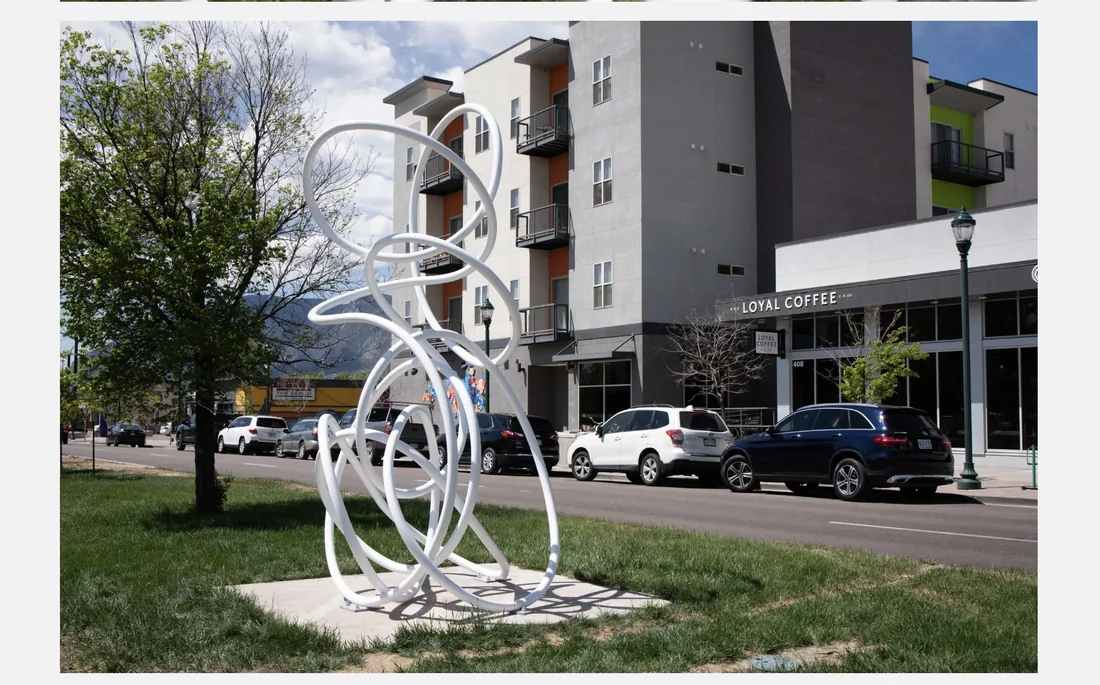
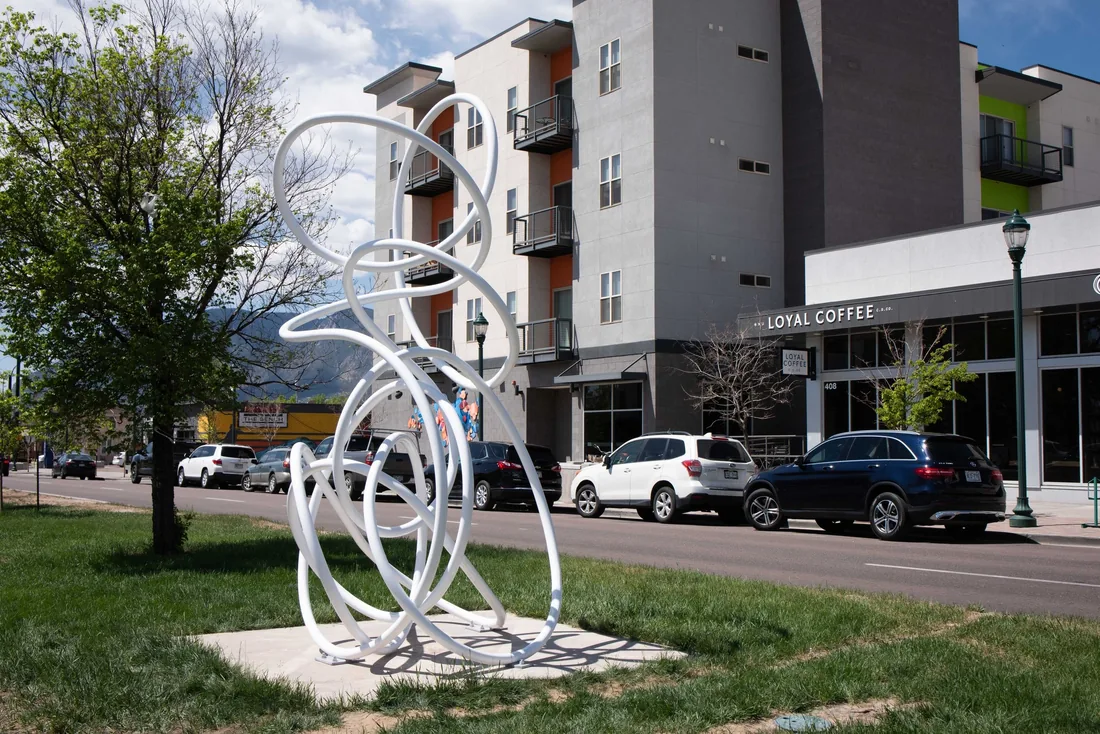
Levity: replace screenshot with original image
Claude-Session: https://claude.ai/code/session_01Y5zLHHVNGBALbwHoLrd9Wg

diff --git a/dist/public-work/index.html b/dist/public-work/index.html
@@ -9,6 +9,6 @@
 <header class="site-head"><div class="wrap"><a class="brand" href="/">Kelly Goff</a>
 <button class="menu-btn" aria-expanded="false" aria-controls="nav">Menu</button>
 <ul class="nav" id="nav"><li><a href="/public-work/" aria-current=page>Public work</a></li><li><a href="/studio/">Studio</a></li><li><a href="/fieldwork/">Fieldwork</a></li><li><a href="/about/">About</a></li><li><a href="/resume/">Resume</a></li><li><a href="/contact/">Contact</a></li></ul></div></header>
-<main id="main"><div class="wrap page-top"><div class="row-head"><div><h1>Public work</h1></div><a class="btn" href="/files/Kelly-Goff-Public-Art-Project-List.pdf">Project list (PDF) ↓</a></div><div><h2 class="sec"><span class=n>01</span>Line works<span class=nt>2020 – present</span></h2></div><p class="sec-d">Continuous lines drawn in space, shaped by a site and built to last outdoors.</p><div class="grid" id="grid-continuous-line"><a class="tile" title="Arboreal Line" href="/public-work/arboreal-line/"><div class="im"><img src="/img/arboreal-line/01-1600.webp" srcset="/img/arboreal-line/01-640.webp 640w, /img/arboreal-line/01-1100.webp 1100w, /img/arboreal-line/01-1600.webp 1600w, /img/arboreal-line/01-2400.webp 2400w" sizes="(max-width:860px) 50vw, 33vw" width="2500" height="1667" alt="Arboreal Line, Uptown Trees, Greeley, CO" loading=lazy decoding=async><span class="hov">Arboreal Line</span></div></a><a class="tile" title="Continuous Line XI (yellow)" href="/public-work/continuous-line-xi/"><div class="im"><img src="/img/continuous-line-xi/01-1600.webp" srcset="/img/continuous-line-xi/01-640.webp 640w, /img/continuous-line-xi/01-1100.webp 1100w, /img/continuous-line-xi/01-1600.webp 1600w, /img/continuous-line-xi/01-2400.webp 2400w" sizes="(max-width:860px) 50vw, 33vw" width="2500" height="1667" alt="Continuous Line XI (yellow), Wheaton College, Norton, MA" loading=lazy decoding=async><span class="hov">Continuous Line XI (yellow)</span></div></a><a class="tile" title="Continuous Line XII (silence)" href="/public-work/continuous-line-xii-silence/"><div class="im"><img src="/img/continuous-line-xii-silence/01-1600.webp" srcset="/img/continuous-line-xii-silence/01-640.webp 640w, /img/continuous-line-xii-silence/01-1100.webp 1100w, /img/continuous-line-xii-silence/01-1600.webp 1600w, /img/continuous-line-xii-silence/01-2400.webp 2400w" sizes="(max-width:860px) 50vw, 33vw" width="2576" height="1932" alt="Continuous Line XII (silence), Wheaton College, Norton, MA" loading=lazy decoding=async><span class="hov">Continuous Line XII (silence)</span></div></a><a class="tile" title="Continuous Line VIII (bamboo)" href="/public-work/continuous-line-viii-bamboo/"><div class="im"><img src="/img/continuous-line-viii-bamboo/03-1600.webp" srcset="/img/continuous-line-viii-bamboo/03-640.webp 640w, /img/continuous-line-viii-bamboo/03-1100.webp 1100w, /img/continuous-line-viii-bamboo/03-1600.webp 1600w, /img/continuous-line-viii-bamboo/03-1776.webp 1776w" sizes="(max-width:860px) 50vw, 33vw" width="1776" height="1184" alt="Continuous Line VIII (bamboo), Geumgang Nature Art Biennale, Yeonmisan Art Park, Gongju, South Korea, view 3" loading=lazy decoding=async><span class="hov">Continuous Line VIII (bamboo)</span></div></a><a class="tile" title="Continuous Line X (heat)" href="/public-work/continuous-line-x-heat/"><div class="im"><img src="/img/continuous-line-x-heat/01-1600.webp" srcset="/img/continuous-line-x-heat/01-640.webp 640w, /img/continuous-line-x-heat/01-1100.webp 1100w, /img/continuous-line-x-heat/01-1600.webp 1600w, /img/continuous-line-x-heat/01-2400.webp 2400w" sizes="(max-width:860px) 50vw, 33vw" width="2500" height="1669" alt="Continuous Line X (heat), Wheaton College, Norton, MA" loading=lazy decoding=async><span class="hov">Continuous Line X (heat)</span></div></a><a class="tile" title="Continuous Line VI (levity)" href="/public-work/continuous-line-vi-levity/"><div class="im"><img src="/img/continuous-line-vi-levity/04-1600.webp" srcset="/img/continuous-line-vi-levity/04-640.webp 640w, /img/continuous-line-vi-levity/04-1100.webp 1100w, /img/continuous-line-vi-levity/04-1600.webp 1600w, /img/continuous-line-vi-levity/04-1854.webp 1854w" sizes="(max-width:860px) 50vw, 33vw" width="1854" height="1154" alt="Continuous Line VI (levity), Power Tech Charter School, Colorado Springs, CO, view 4" loading=lazy decoding=async><span class="hov">Continuous Line VI (levity)</span></div></a><a class="tile" title="Continuous Line VII" href="/public-work/continuous-line-vii/"><div class="im"><img src="/img/continuous-line-vii/01-1600.webp" srcset="/img/continuous-line-vii/01-640.webp 640w, /img/continuous-line-vii/01-1100.webp 1100w, /img/continuous-line-vii/01-1600.webp 1600w, /img/continuous-line-vii/01-2400.webp 2400w" sizes="(max-width:860px) 50vw, 33vw" width="2500" height="1668" alt="Continuous Line VII, El Paseo Sculpture Exhibition, Palm Desert, CA" loading=lazy decoding=async><span class="hov">Continuous Line VII</span></div></a><a class="tile" title="Continuous Line I (tangerine)" href="/public-work/continuous-line-i-tangerine/"><div class="im"><img src="/img/continuous-line-i-tangerine/01-1600.webp" srcset="/img/continuous-line-i-tangerine/01-640.webp 640w, /img/continuous-line-i-tangerine/01-1100.webp 1100w, /img/continuous-line-i-tangerine/01-1600.webp 1600w, /img/continuous-line-i-tangerine/01-2400.webp 2400w" sizes="(max-width:860px) 50vw, 33vw" width="2500" height="1667" alt="Continuous Line I (tangerine), Art on the Trails, Beals Preserve, Southborough, MA" loading=lazy decoding=async><span class="hov">Continuous Line I (tangerine)</span></div></a><a class="tile" title="Continuous Line II (aquamarine)" href="/public-work/continuous-line-ii-aquamarine/"><div class="im"><img src="/img/continuous-line-ii-aquamarine/01-1600.webp" srcset="/img/continuous-line-ii-aquamarine/01-640.webp 640w, /img/continuous-line-ii-aquamarine/01-1100.webp 1100w, /img/continuous-line-ii-aquamarine/01-1600.webp 1600w, /img/continuous-line-ii-aquamarine/01-2400.webp 2400w" sizes="(max-width:860px) 50vw, 33vw" width="2500" height="1669" alt="Continuous Line II (aquamarine), Art on the Trails, Beals Preserve, Southborough, MA" loading=lazy decoding=async><span class="hov">Continuous Line II (aquamarine)</span></div></a></div><div><h2 class="sec"><span class=n>02</span>Place-based / collaborative<span class=nt>2014 – 2021</span></h2></div><p class="sec-d">Work made in response to a specific place, often with the people who use it.</p><div class="grid" id="grid-place-based"><a class="tile" title="Limb Support" href="/public-work/limb-support/"><div class="im"><img src="/img/limb-support/01-1600.webp" srcset="/img/limb-support/01-640.webp 640w, /img/limb-support/01-1100.webp 1100w, /img/limb-support/01-1600.webp 1600w, /img/limb-support/01-2000.webp 2000w" sizes="(max-width:860px) 50vw, 33vw" width="2000" height="1333" alt="Limb Support, Art on the Trails, Beals Preserve, Southborough, MA" loading=lazy decoding=async><span class="hov">Limb Support</span></div></a><a class="tile" title="Log Pile" href="/public-work/log-pile/"><div class="im"><img src="/img/log-pile/01-1600.webp" srcset="/img/log-pile/01-640.webp 640w, /img/log-pile/01-1100.webp 1100w, /img/log-pile/01-1600.webp 1600w, /img/log-pile/01-2400.webp 2400w" sizes="(max-width:860px) 50vw, 33vw" width="2500" height="1668" alt="Log Pile, Early Learning Center, Wheaton College, Norton, MA" loading=lazy decoding=async><span class="hov">Log Pile</span></div></a><a class="tile" title="Beacon" href="/public-work/beacon/"><div class="im"><img src="/img/beacon/01-1600.webp" srcset="/img/beacon/01-640.webp 640w, /img/beacon/01-1100.webp 1100w, /img/beacon/01-1600.webp 1600w, /img/beacon/01-2400.webp 2400w" sizes="(max-width:860px) 50vw, 33vw" width="2500" height="1669" alt="Beacon, gardeHouse, Lafayette College, Easton, PA" loading=lazy decoding=async><span class="hov">Beacon</span></div></a><a class="tile" title="Bamboo III (of V)" href="/public-work/bamboo-iii/"><div class="im"><img src="/img/bamboo-iii/07-1600.webp" srcset="/img/bamboo-iii/07-640.webp 640w, /img/bamboo-iii/07-1100.webp 1100w, /img/bamboo-iii/07-1600.webp 1600w, /img/bamboo-iii/07-2400.webp 2400w" sizes="(max-width:860px) 50vw, 33vw" width="2500" height="1668" alt="Bamboo III (of V), Royal Thimphu College, Thimphu, Bhutan, view 7" loading=lazy decoding=async><span class="hov">Bamboo III (of V)</span></div></a><a class="tile" title="Lawn Containers" href="/public-work/lawn-containers/"><div class="im"><img src="/img/lawn-containers/05-1600.webp" srcset="/img/lawn-containers/05-640.webp 640w, /img/lawn-containers/05-1100.webp 1100w, /img/lawn-containers/05-1600.webp 1600w, /img/lawn-containers/05-1920.webp 1920w" sizes="(max-width:860px) 50vw, 33vw" width="1920" height="1280" alt="Lawn Containers, D Street Art Lab, Lawn on D, Boston, MA, view 5" loading=lazy decoding=async><span class="hov">Lawn Containers</span></div></a><a class="tile" title="Bear" href="/public-work/bear/"><div class="im"><img src="/img/bear/01-1600.webp" srcset="/img/bear/01-640.webp 640w, /img/bear/01-1100.webp 1100w, /img/bear/01-1600.webp 1600w, /img/bear/01-2400.webp 2400w" sizes="(max-width:860px) 50vw, 33vw" width="2500" height="1667" alt="Bear, Lake Clark National Park, Alaska" loading=lazy decoding=async><span class="hov">Bear</span></div></a></div><div><h2 class="sec"><span class=n>03</span>Drawings &amp; Renderings<span class=nt>Unbuilt</span></h2></div><p class="sec-d">Rendered models placed in photographs of real and imagined places. This is how I draw for fun, and how I ideate and envision work for public spaces. None of these are built, and none use <a href="/about/#ai">generative AI</a>.</p><div class="grid" id="grid-renderings"><a class="tile" title="Seated Line" href="/public-work/renderings/seated-line/"><div class="im"><img src="/img/rd-seated-line/02-1600.webp" srcset="/img/rd-seated-line/02-640.webp 640w, /img/rd-seated-line/02-1100.webp 1100w, /img/rd-seated-line/02-1600.webp 1600w, /img/rd-seated-line/02-2250.webp 2250w" sizes="(max-width:860px) 50vw, 33vw" width="2250" height="1500" alt="Rendering of a red looping sculpture on a harbor quay" loading=lazy decoding=async></div></a><a class="tile" title="Black loops, open field" href="/public-work/renderings/black-field/"><div class="im"><img src="/img/rd-black-field/01-1600.webp" srcset="/img/rd-black-field/01-640.webp 640w, /img/rd-black-field/01-1100.webp 1100w, /img/rd-black-field/01-1600.webp 1600w, /img/rd-black-field/01-2400.webp 2400w" sizes="(max-width:860px) 50vw, 33vw" width="2500" height="1668" alt="Rendering of black loops, close view, in an open field" loading=lazy decoding=async></div></a><a class="tile" title="Tower" href="/public-work/renderings/tower/"><div class="im"><img src="/img/rd-tower/01-1600.webp" srcset="/img/rd-tower/01-640.webp 640w, /img/rd-tower/01-1100.webp 1100w, /img/rd-tower/01-1600.webp 1600w, /img/rd-tower/01-2048.webp 2048w" sizes="(max-width:860px) 50vw, 33vw" width="2048" height="1536" alt="Rendering of a 40-foot tower of stacked crates in an open field" loading=lazy decoding=async></div></a><a class="tile" title="Timber Loop" href="/public-work/renderings/timber-loop/"><div class="im"><img src="/img/rd-timber-loop/03-1600.webp" srcset="/img/rd-timber-loop/03-640.webp 640w, /img/rd-timber-loop/03-1100.webp 1100w, /img/rd-timber-loop/03-1600.webp 1600w, /img/rd-timber-loop/03-2021.webp 2021w" sizes="(max-width:860px) 50vw, 33vw" width="2021" height="1516" alt="Rendering of a two-tone timber looping sculpture in a plaza" loading=lazy decoding=async></div></a><a class="tile" title="Tall Circuit" href="/public-work/renderings/tall-circuit/"><div class="im"><img src="/img/rd-tall-circuit/02-1600.webp" srcset="/img/rd-tall-circuit/02-640.webp 640w, /img/rd-tall-circuit/02-1100.webp 1100w, /img/rd-tall-circuit/02-1600.webp 1600w, /img/rd-tall-circuit/02-2250.webp 2250w" sizes="(max-width:860px) 50vw, 33vw" width="2250" height="1500" alt="Rendering of a tall looping pink aluminum sculpture in an urban setting" loading=lazy decoding=async></div></a></div></div></main>
+<main id="main"><div class="wrap page-top"><div class="row-head"><div><h1>Public work</h1></div><a class="btn" href="/files/Kelly-Goff-Public-Art-Project-List.pdf">Project list (PDF) ↓</a></div><div><h2 class="sec"><span class=n>01</span>Line works<span class=nt>2020 – present</span></h2></div><p class="sec-d">Continuous lines drawn in space, shaped by a site and built to last outdoors.</p><div class="grid" id="grid-continuous-line"><a class="tile" title="Arboreal Line" href="/public-work/arboreal-line/"><div class="im"><img src="/img/arboreal-line/01-1600.webp" srcset="/img/arboreal-line/01-640.webp 640w, /img/arboreal-line/01-1100.webp 1100w, /img/arboreal-line/01-1600.webp 1600w, /img/arboreal-line/01-2400.webp 2400w" sizes="(max-width:860px) 50vw, 33vw" width="2500" height="1667" alt="Arboreal Line, Uptown Trees, Greeley, CO" loading=lazy decoding=async><span class="hov">Arboreal Line</span></div></a><a class="tile" title="Continuous Line XI (yellow)" href="/public-work/continuous-line-xi/"><div class="im"><img src="/img/continuous-line-xi/01-1600.webp" srcset="/img/continuous-line-xi/01-640.webp 640w, /img/continuous-line-xi/01-1100.webp 1100w, /img/continuous-line-xi/01-1600.webp 1600w, /img/continuous-line-xi/01-2400.webp 2400w" sizes="(max-width:860px) 50vw, 33vw" width="2500" height="1667" alt="Continuous Line XI (yellow), Wheaton College, Norton, MA" loading=lazy decoding=async><span class="hov">Continuous Line XI (yellow)</span></div></a><a class="tile" title="Continuous Line XII (silence)" href="/public-work/continuous-line-xii-silence/"><div class="im"><img src="/img/continuous-line-xii-silence/01-1600.webp" srcset="/img/continuous-line-xii-silence/01-640.webp 640w, /img/continuous-line-xii-silence/01-1100.webp 1100w, /img/continuous-line-xii-silence/01-1600.webp 1600w, /img/continuous-line-xii-silence/01-2400.webp 2400w" sizes="(max-width:860px) 50vw, 33vw" width="2576" height="1932" alt="Continuous Line XII (silence), Wheaton College, Norton, MA" loading=lazy decoding=async><span class="hov">Continuous Line XII (silence)</span></div></a><a class="tile" title="Continuous Line VIII (bamboo)" href="/public-work/continuous-line-viii-bamboo/"><div class="im"><img src="/img/continuous-line-viii-bamboo/03-1600.webp" srcset="/img/continuous-line-viii-bamboo/03-640.webp 640w, /img/continuous-line-viii-bamboo/03-1100.webp 1100w, /img/continuous-line-viii-bamboo/03-1600.webp 1600w, /img/continuous-line-viii-bamboo/03-1776.webp 1776w" sizes="(max-width:860px) 50vw, 33vw" width="1776" height="1184" alt="Continuous Line VIII (bamboo), Geumgang Nature Art Biennale, Yeonmisan Art Park, Gongju, South Korea, view 3" loading=lazy decoding=async><span class="hov">Continuous Line VIII (bamboo)</span></div></a><a class="tile" title="Continuous Line X (heat)" href="/public-work/continuous-line-x-heat/"><div class="im"><img src="/img/continuous-line-x-heat/01-1600.webp" srcset="/img/continuous-line-x-heat/01-640.webp 640w, /img/continuous-line-x-heat/01-1100.webp 1100w, /img/continuous-line-x-heat/01-1600.webp 1600w, /img/continuous-line-x-heat/01-2400.webp 2400w" sizes="(max-width:860px) 50vw, 33vw" width="2500" height="1669" alt="Continuous Line X (heat), Wheaton College, Norton, MA" loading=lazy decoding=async><span class="hov">Continuous Line X (heat)</span></div></a><a class="tile" title="Continuous Line VI (levity)" href="/public-work/continuous-line-vi-levity/"><div class="im"><img src="/img/continuous-line-vi-levity/04-1600.webp" srcset="/img/continuous-line-vi-levity/04-640.webp 640w, /img/continuous-line-vi-levity/04-1100.webp 1100w, /img/continuous-line-vi-levity/04-1600.webp 1600w, /img/continuous-line-vi-levity/04-2400.webp 2400w" sizes="(max-width:860px) 50vw, 33vw" width="2500" height="1668" alt="Continuous Line VI (levity), Power Tech Charter School, Colorado Springs, CO, view 4" loading=lazy decoding=async><span class="hov">Continuous Line VI (levity)</span></div></a><a class="tile" title="Continuous Line VII" href="/public-work/continuous-line-vii/"><div class="im"><img src="/img/continuous-line-vii/01-1600.webp" srcset="/img/continuous-line-vii/01-640.webp 640w, /img/continuous-line-vii/01-1100.webp 1100w, /img/continuous-line-vii/01-1600.webp 1600w, /img/continuous-line-vii/01-2400.webp 2400w" sizes="(max-width:860px) 50vw, 33vw" width="2500" height="1668" alt="Continuous Line VII, El Paseo Sculpture Exhibition, Palm Desert, CA" loading=lazy decoding=async><span class="hov">Continuous Line VII</span></div></a><a class="tile" title="Continuous Line I (tangerine)" href="/public-work/continuous-line-i-tangerine/"><div class="im"><img src="/img/continuous-line-i-tangerine/01-1600.webp" srcset="/img/continuous-line-i-tangerine/01-640.webp 640w, /img/continuous-line-i-tangerine/01-1100.webp 1100w, /img/continuous-line-i-tangerine/01-1600.webp 1600w, /img/continuous-line-i-tangerine/01-2400.webp 2400w" sizes="(max-width:860px) 50vw, 33vw" width="2500" height="1667" alt="Continuous Line I (tangerine), Art on the Trails, Beals Preserve, Southborough, MA" loading=lazy decoding=async><span class="hov">Continuous Line I (tangerine)</span></div></a><a class="tile" title="Continuous Line II (aquamarine)" href="/public-work/continuous-line-ii-aquamarine/"><div class="im"><img src="/img/continuous-line-ii-aquamarine/01-1600.webp" srcset="/img/continuous-line-ii-aquamarine/01-640.webp 640w, /img/continuous-line-ii-aquamarine/01-1100.webp 1100w, /img/continuous-line-ii-aquamarine/01-1600.webp 1600w, /img/continuous-line-ii-aquamarine/01-2400.webp 2400w" sizes="(max-width:860px) 50vw, 33vw" width="2500" height="1669" alt="Continuous Line II (aquamarine), Art on the Trails, Beals Preserve, Southborough, MA" loading=lazy decoding=async><span class="hov">Continuous Line II (aquamarine)</span></div></a></div><div><h2 class="sec"><span class=n>02</span>Place-based / collaborative<span class=nt>2014 – 2021</span></h2></div><p class="sec-d">Work made in response to a specific place, often with the people who use it.</p><div class="grid" id="grid-place-based"><a class="tile" title="Limb Support" href="/public-work/limb-support/"><div class="im"><img src="/img/limb-support/01-1600.webp" srcset="/img/limb-support/01-640.webp 640w, /img/limb-support/01-1100.webp 1100w, /img/limb-support/01-1600.webp 1600w, /img/limb-support/01-2000.webp 2000w" sizes="(max-width:860px) 50vw, 33vw" width="2000" height="1333" alt="Limb Support, Art on the Trails, Beals Preserve, Southborough, MA" loading=lazy decoding=async><span class="hov">Limb Support</span></div></a><a class="tile" title="Log Pile" href="/public-work/log-pile/"><div class="im"><img src="/img/log-pile/01-1600.webp" srcset="/img/log-pile/01-640.webp 640w, /img/log-pile/01-1100.webp 1100w, /img/log-pile/01-1600.webp 1600w, /img/log-pile/01-2400.webp 2400w" sizes="(max-width:860px) 50vw, 33vw" width="2500" height="1668" alt="Log Pile, Early Learning Center, Wheaton College, Norton, MA" loading=lazy decoding=async><span class="hov">Log Pile</span></div></a><a class="tile" title="Beacon" href="/public-work/beacon/"><div class="im"><img src="/img/beacon/01-1600.webp" srcset="/img/beacon/01-640.webp 640w, /img/beacon/01-1100.webp 1100w, /img/beacon/01-1600.webp 1600w, /img/beacon/01-2400.webp 2400w" sizes="(max-width:860px) 50vw, 33vw" width="2500" height="1669" alt="Beacon, gardeHouse, Lafayette College, Easton, PA" loading=lazy decoding=async><span class="hov">Beacon</span></div></a><a class="tile" title="Bamboo III (of V)" href="/public-work/bamboo-iii/"><div class="im"><img src="/img/bamboo-iii/07-1600.webp" srcset="/img/bamboo-iii/07-640.webp 640w, /img/bamboo-iii/07-1100.webp 1100w, /img/bamboo-iii/07-1600.webp 1600w, /img/bamboo-iii/07-2400.webp 2400w" sizes="(max-width:860px) 50vw, 33vw" width="2500" height="1668" alt="Bamboo III (of V), Royal Thimphu College, Thimphu, Bhutan, view 7" loading=lazy decoding=async><span class="hov">Bamboo III (of V)</span></div></a><a class="tile" title="Lawn Containers" href="/public-work/lawn-containers/"><div class="im"><img src="/img/lawn-containers/05-1600.webp" srcset="/img/lawn-containers/05-640.webp 640w, /img/lawn-containers/05-1100.webp 1100w, /img/lawn-containers/05-1600.webp 1600w, /img/lawn-containers/05-1920.webp 1920w" sizes="(max-width:860px) 50vw, 33vw" width="1920" height="1280" alt="Lawn Containers, D Street Art Lab, Lawn on D, Boston, MA, view 5" loading=lazy decoding=async><span class="hov">Lawn Containers</span></div></a><a class="tile" title="Bear" href="/public-work/bear/"><div class="im"><img src="/img/bear/01-1600.webp" srcset="/img/bear/01-640.webp 640w, /img/bear/01-1100.webp 1100w, /img/bear/01-1600.webp 1600w, /img/bear/01-2400.webp 2400w" sizes="(max-width:860px) 50vw, 33vw" width="2500" height="1667" alt="Bear, Lake Clark National Park, Alaska" loading=lazy decoding=async><span class="hov">Bear</span></div></a></div><div><h2 class="sec"><span class=n>03</span>Drawings &amp; Renderings<span class=nt>Unbuilt</span></h2></div><p class="sec-d">Rendered models placed in photographs of real and imagined places. This is how I draw for fun, and how I ideate and envision work for public spaces. None of these are built, and none use <a href="/about/#ai">generative AI</a>.</p><div class="grid" id="grid-renderings"><a class="tile" title="Seated Line" href="/public-work/renderings/seated-line/"><div class="im"><img src="/img/rd-seated-line/02-1600.webp" srcset="/img/rd-seated-line/02-640.webp 640w, /img/rd-seated-line/02-1100.webp 1100w, /img/rd-seated-line/02-1600.webp 1600w, /img/rd-seated-line/02-2250.webp 2250w" sizes="(max-width:860px) 50vw, 33vw" width="2250" height="1500" alt="Rendering of a red looping sculpture on a harbor quay" loading=lazy decoding=async></div></a><a class="tile" title="Black loops, open field" href="/public-work/renderings/black-field/"><div class="im"><img src="/img/rd-black-field/01-1600.webp" srcset="/img/rd-black-field/01-640.webp 640w, /img/rd-black-field/01-1100.webp 1100w, /img/rd-black-field/01-1600.webp 1600w, /img/rd-black-field/01-2400.webp 2400w" sizes="(max-width:860px) 50vw, 33vw" width="2500" height="1668" alt="Rendering of black loops, close view, in an open field" loading=lazy decoding=async></div></a><a class="tile" title="Tower" href="/public-work/renderings/tower/"><div class="im"><img src="/img/rd-tower/01-1600.webp" srcset="/img/rd-tower/01-640.webp 640w, /img/rd-tower/01-1100.webp 1100w, /img/rd-tower/01-1600.webp 1600w, /img/rd-tower/01-2048.webp 2048w" sizes="(max-width:860px) 50vw, 33vw" width="2048" height="1536" alt="Rendering of a 40-foot tower of stacked crates in an open field" loading=lazy decoding=async></div></a><a class="tile" title="Timber Loop" href="/public-work/renderings/timber-loop/"><div class="im"><img src="/img/rd-timber-loop/03-1600.webp" srcset="/img/rd-timber-loop/03-640.webp 640w, /img/rd-timber-loop/03-1100.webp 1100w, /img/rd-timber-loop/03-1600.webp 1600w, /img/rd-timber-loop/03-2021.webp 2021w" sizes="(max-width:860px) 50vw, 33vw" width="2021" height="1516" alt="Rendering of a two-tone timber looping sculpture in a plaza" loading=lazy decoding=async></div></a><a class="tile" title="Tall Circuit" href="/public-work/renderings/tall-circuit/"><div class="im"><img src="/img/rd-tall-circuit/02-1600.webp" srcset="/img/rd-tall-circuit/02-640.webp 640w, /img/rd-tall-circuit/02-1100.webp 1100w, /img/rd-tall-circuit/02-1600.webp 1600w, /img/rd-tall-circuit/02-2250.webp 2250w" sizes="(max-width:860px) 50vw, 33vw" width="2250" height="1500" alt="Rendering of a tall looping pink aluminum sculpture in an urban setting" loading=lazy decoding=async></div></a></div></div></main>
 <footer class="site-foot"><div class="wrap"><span>© 2008–2026 Kelly Goff</span><a href="https://www.instagram.com/kellygoffstudio/" rel="me noopener">Instagram · @kellygoffstudio</a></div></footer>
 <script src="/assets/js/site.js" defer></script></body></html>

diff --git a/dist/public-work/continuous-line-vi-levity/index.html b/dist/public-work/continuous-line-vi-levity/index.html
@@ -9,6 +9,6 @@
 <header class="site-head"><div class="wrap"><a class="brand" href="/">Kelly Goff</a>
 <button class="menu-btn" aria-expanded="false" aria-controls="nav">Menu</button>
 <ul class="nav" id="nav"><li><a href="/public-work/" aria-current=page>Public work</a></li><li><a href="/studio/">Studio</a></li><li><a href="/fieldwork/">Fieldwork</a></li><li><a href="/about/">About</a></li><li><a href="/resume/">Resume</a></li><li><a href="/contact/">Contact</a></li></ul></div></header>
-<main id="main"><div class="wrap page-top"><div class="crumb"><a href="/public-work/">Public work</a> / Line works</div><h1 style="margin-top:10px">Continuous Line VI (levity)</h1><div class="proj"><div class="gal"><figure><button type="button" data-lb="/img/continuous-line-vi-levity/01-2400.webp" data-alt="Continuous Line VI (levity), Power Tech Charter School, Colorado Springs, CO" data-cap="Continuous Line VI (levity)" aria-label="Enlarge image 1 of 4"><img src="/img/continuous-line-vi-levity/01-1600.webp" srcset="/img/continuous-line-vi-levity/01-640.webp 640w, /img/continuous-line-vi-levity/01-1100.webp 1100w, /img/continuous-line-vi-levity/01-1600.webp 1600w, /img/continuous-line-vi-levity/01-2400.webp 2400w" sizes="(max-width:860px) 100vw, 60vw" width="2500" height="1669" alt="Continuous Line VI (levity), Power Tech Charter School, Colorado Springs, CO" decoding=async></button></figure><figure><button type="button" data-lb="/img/continuous-line-vi-levity/02-2400.webp" data-alt="Continuous Line VI (levity), Power Tech Charter School, Colorado Springs, CO, view 2" data-cap="Continuous Line VI (levity)" aria-label="Enlarge image 2 of 4"><img src="/img/continuous-line-vi-levity/02-1600.webp" srcset="/img/continuous-line-vi-levity/02-640.webp 640w, /img/continuous-line-vi-levity/02-1100.webp 1100w, /img/continuous-line-vi-levity/02-1600.webp 1600w, /img/continuous-line-vi-levity/02-2400.webp 2400w" sizes="(max-width:860px) 100vw, 60vw" width="2500" height="1668" alt="Continuous Line VI (levity), Power Tech Charter School, Colorado Springs, CO, view 2" loading=lazy decoding=async></button></figure><figure><button type="button" data-lb="/img/continuous-line-vi-levity/03-2400.webp" data-alt="Continuous Line VI (levity), Power Tech Charter School, Colorado Springs, CO, view 3" data-cap="Continuous Line VI (levity)" aria-label="Enlarge image 3 of 4"><img src="/img/continuous-line-vi-levity/03-1600.webp" srcset="/img/continuous-line-vi-levity/03-640.webp 640w, /img/continuous-line-vi-levity/03-1100.webp 1100w, /img/continuous-line-vi-levity/03-1600.webp 1600w, /img/continuous-line-vi-levity/03-2400.webp 2400w" sizes="(max-width:860px) 100vw, 60vw" width="2500" height="1668" alt="Continuous Line VI (levity), Power Tech Charter School, Colorado Springs, CO, view 3" loading=lazy decoding=async></button></figure><figure><button type="button" data-lb="/img/continuous-line-vi-levity/04-1854.webp" data-alt="Continuous Line VI (levity), Power Tech Charter School, Colorado Springs, CO, view 4" data-cap="Continuous Line VI (levity)" aria-label="Enlarge image 4 of 4"><img src="/img/continuous-line-vi-levity/04-1600.webp" srcset="/img/continuous-line-vi-levity/04-640.webp 640w, /img/continuous-line-vi-levity/04-1100.webp 1100w, /img/continuous-line-vi-levity/04-1600.webp 1600w, /img/continuous-line-vi-levity/04-1854.webp 1854w" sizes="(max-width:860px) 100vw, 60vw" width="1854" height="1154" alt="Continuous Line VI (levity), Power Tech Charter School, Colorado Springs, CO, view 4" loading=lazy decoding=async></button></figure></div><aside class="facts" aria-label="Project details"><div class="fact"><div class="k">Year</div><div class="v">2022</div></div><div class="fact"><div class="k">Series</div><div class="v">Continuous Line</div></div><div class="fact"><div class="k">Material</div><div class="v">Painted steel</div></div><div class="fact"><div class="k">Size</div><div class="v">5.5 × 5.5 × 11.5 ft</div></div><div class="fact"><div class="k">Site</div><div class="v">Power Tech Charter School, Colorado Springs, CO</div></div><div class="fact"><div class="k">Status</div><div class="v">Permanent (2023). Exhibited 2022–23 through Art on the Streets</div></div></aside></div><nav class="pager" aria-label="More projects"><span><a href="/public-work/arboreal-line/">← Arboreal Line</a></span><a href="/public-work/">All public work</a><span><a href="/public-work/continuous-line-vii/">Continuous Line VII →</a></span></nav></div><dialog class="lb" id="lb" aria-label="Image viewer"><div class="lb-in"><div class="stage"><img alt=""></div><div class="lb-cap"></div></div><button class="x" type="button">Close</button><button class="pv" type="button" aria-label="Previous image">←</button><button class="nx" type="button" aria-label="Next image">→</button></dialog></main>
+<main id="main"><div class="wrap page-top"><div class="crumb"><a href="/public-work/">Public work</a> / Line works</div><h1 style="margin-top:10px">Continuous Line VI (levity)</h1><div class="proj"><div class="gal"><figure><button type="button" data-lb="/img/continuous-line-vi-levity/01-2400.webp" data-alt="Continuous Line VI (levity), Power Tech Charter School, Colorado Springs, CO" data-cap="Continuous Line VI (levity)" aria-label="Enlarge image 1 of 4"><img src="/img/continuous-line-vi-levity/01-1600.webp" srcset="/img/continuous-line-vi-levity/01-640.webp 640w, /img/continuous-line-vi-levity/01-1100.webp 1100w, /img/continuous-line-vi-levity/01-1600.webp 1600w, /img/continuous-line-vi-levity/01-2400.webp 2400w" sizes="(max-width:860px) 100vw, 60vw" width="2500" height="1669" alt="Continuous Line VI (levity), Power Tech Charter School, Colorado Springs, CO" decoding=async></button></figure><figure><button type="button" data-lb="/img/continuous-line-vi-levity/02-2400.webp" data-alt="Continuous Line VI (levity), Power Tech Charter School, Colorado Springs, CO, view 2" data-cap="Continuous Line VI (levity)" aria-label="Enlarge image 2 of 4"><img src="/img/continuous-line-vi-levity/02-1600.webp" srcset="/img/continuous-line-vi-levity/02-640.webp 640w, /img/continuous-line-vi-levity/02-1100.webp 1100w, /img/continuous-line-vi-levity/02-1600.webp 1600w, /img/continuous-line-vi-levity/02-2400.webp 2400w" sizes="(max-width:860px) 100vw, 60vw" width="2500" height="1668" alt="Continuous Line VI (levity), Power Tech Charter School, Colorado Springs, CO, view 2" loading=lazy decoding=async></button></figure><figure><button type="button" data-lb="/img/continuous-line-vi-levity/03-2400.webp" data-alt="Continuous Line VI (levity), Power Tech Charter School, Colorado Springs, CO, view 3" data-cap="Continuous Line VI (levity)" aria-label="Enlarge image 3 of 4"><img src="/img/continuous-line-vi-levity/03-1600.webp" srcset="/img/continuous-line-vi-levity/03-640.webp 640w, /img/continuous-line-vi-levity/03-1100.webp 1100w, /img/continuous-line-vi-levity/03-1600.webp 1600w, /img/continuous-line-vi-levity/03-2400.webp 2400w" sizes="(max-width:860px) 100vw, 60vw" width="2500" height="1668" alt="Continuous Line VI (levity), Power Tech Charter School, Colorado Springs, CO, view 3" loading=lazy decoding=async></button></figure><figure><button type="button" data-lb="/img/continuous-line-vi-levity/04-2400.webp" data-alt="Continuous Line VI (levity), Power Tech Charter School, Colorado Springs, CO, view 4" data-cap="Continuous Line VI (levity)" aria-label="Enlarge image 4 of 4"><img src="/img/continuous-line-vi-levity/04-1600.webp" srcset="/img/continuous-line-vi-levity/04-640.webp 640w, /img/continuous-line-vi-levity/04-1100.webp 1100w, /img/continuous-line-vi-levity/04-1600.webp 1600w, /img/continuous-line-vi-levity/04-2400.webp 2400w" sizes="(max-width:860px) 100vw, 60vw" width="2500" height="1668" alt="Continuous Line VI (levity), Power Tech Charter School, Colorado Springs, CO, view 4" loading=lazy decoding=async></button></figure></div><aside class="facts" aria-label="Project details"><div class="fact"><div class="k">Year</div><div class="v">2022</div></div><div class="fact"><div class="k">Series</div><div class="v">Continuous Line</div></div><div class="fact"><div class="k">Material</div><div class="v">Painted steel</div></div><div class="fact"><div class="k">Size</div><div class="v">5.5 × 5.5 × 11.5 ft</div></div><div class="fact"><div class="k">Site</div><div class="v">Power Tech Charter School, Colorado Springs, CO</div></div><div class="fact"><div class="k">Status</div><div class="v">Permanent (2023). Exhibited 2022–23 through Art on the Streets</div></div></aside></div><nav class="pager" aria-label="More projects"><span><a href="/public-work/arboreal-line/">← Arboreal Line</a></span><a href="/public-work/">All public work</a><span><a href="/public-work/continuous-line-vii/">Continuous Line VII →</a></span></nav></div><dialog class="lb" id="lb" aria-label="Image viewer"><div class="lb-in"><div class="stage"><img alt=""></div><div class="lb-cap"></div></div><button class="x" type="button">Close</button><button class="pv" type="button" aria-label="Previous image">←</button><button class="nx" type="button" aria-label="Next image">→</button></dialog></main>
 <footer class="site-foot"><div class="wrap"><span>© 2008–2026 Kelly Goff</span><a href="https://www.instagram.com/kellygoffstudio/" rel="me noopener">Instagram · @kellygoffstudio</a></div></footer>
 <script src="/assets/js/site.js" defer></script></body></html>
